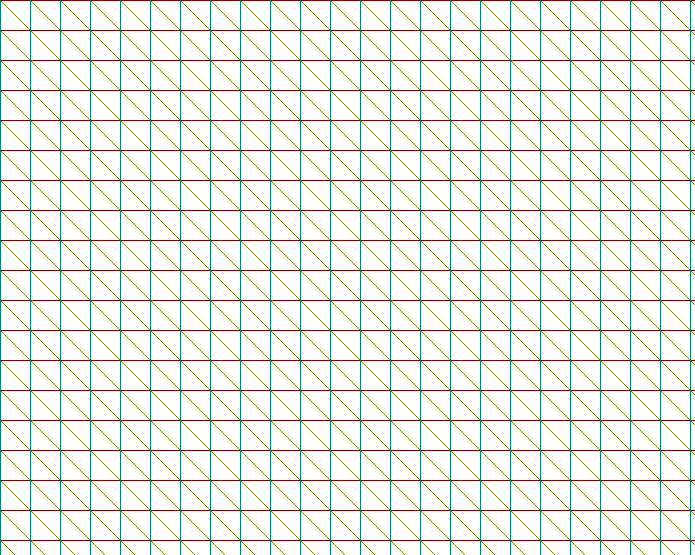
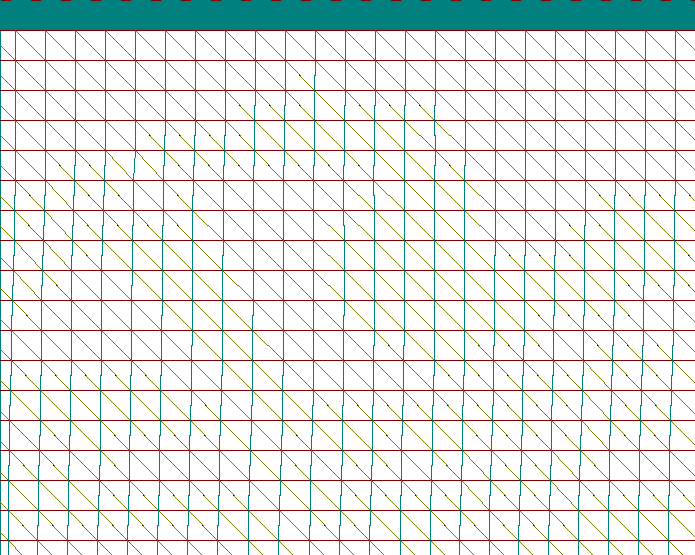
grid warp

Changed region(s): [[0.0, 0.0, 1.0, 1.0], [0.9971, 0.7964, 1.0, 0.827]]

diff --git a/assignment2/src/your_code_here.h b/assignment2/src/your_code_here.h
@@ -14,7 +14,30 @@
  * Utility functions.
  */
 
+template <typename T>
+int getImageOffset(const Image<T>& image, int x, int y)
+{
+    // Return offset of the pixel at column x and row y in memory such that
+    // the pixel can be accessed by image.data[offset].
+    //
+    // Note, that the image is stored in row-first order,
+    // ie. is the order of [x,y] pixels is [0,0],[1,0],[2,0]...[0,1],[1,1][2,1],...
+    //
+    // Image size can be accessed using image.width and image.height.
 
+    /*******
+     * TODO: YOUR CODE GOES HERE!!!
+     ******/
+
+    return y * image.width + x;
+}
+
+int getVertexOffset(const int width, const int x, const int y)
+{
+    int res;
+    res = y * (width + 1) + x;
+    return res;
+}
 
 /// <summary>
 /// Bilinearly sample ImageFloat or ImageRGB using relative image coordinates [x,y].
@@ -40,7 +63,7 @@ inline T sampleBilinear(const Image<T>& image, const glm::vec2& rel_pos)
     // 
     // Therefore, steps are as follows:
     //     1. Compute absolute position of the sampled point within a pixel grid.
-    //     2. Determine 4 nearest pixels.
+    //     2. Determine 4 nearest pixels. 
     //     3. Bilinearly interpolate their values based on the position of the sampling point between them.
     // 
     // Note: The method is templated by parameter "T". This will be either float or glm::vec3 depending on whether the method
@@ -55,32 +78,55 @@ inline T sampleBilinear(const Image<T>& image, const glm::vec2& rel_pos)
     //    YOUR CODE GOES HERE
     //
 
-    return image.data[0]; // <-- Change this.
-}
+    glm::vec2 abs_pos(rel_pos.x * float(image.width), rel_pos.y * float(image.height));
 
-template <typename T>
-int getImageOffset(const Image<T>& image, int x, int y)
-{
-    // Return offset of the pixel at column x and row y in memory such that
-    // the pixel can be accessed by image.data[offset].
-    //
-    // Note, that the image is stored in row-first order,
-    // ie. is the order of [x,y] pixels is [0,0],[1,0],[2,0]...[0,1],[1,1][2,1],...
-    //
-    // Image size can be accessed using image.width and image.height.
+    glm::vec2 topleft(round(abs_pos.x) - 1.0f, round(abs_pos.y) - 1.0f);
+    glm::vec2 topright(round(abs_pos.x), round(abs_pos.y) - 1.0f);
+    glm::vec2 bottomleft(round(abs_pos.x) - 1.0f, round(abs_pos.y));
+    glm::vec2 bottomright(round(abs_pos.x), round(abs_pos.y));
 
-    /*******
-     * TODO: YOUR CODE GOES HERE!!!
-     ******/
+    auto factor_x = 0.0f;
+    auto factor_y = 0.0f;
+    auto pixel_size = 1.0f / float(image.width);
+    auto yLow = image.data[0];
+    auto yHigh = image.data[0];
+    auto result = image.data[0];
 
-    return y * image.width + x;
-}
+    
+    if (round(abs_pos.x) - abs_pos.x > 0) { // 0.8
+    
+        factor_x = glm::mod(abs_pos.x, 1.0f) - (pixel_size / 2.0f);
+        // factor_x = 0.5f;
 
-int getVertexOffset(const int width, const int x, const int y)
-{
-    int res;
-    res = y * (width + 1) + x;
-    return res;
+        yLow = image.data[getImageOffset(image, topleft.x, topleft.y)] + (image.data[getImageOffset(image, topright.x, topright.y)] - image.data[getImageOffset(image, topleft.x, topleft.y)]) * factor_x;
+        yHigh = image.data[getImageOffset(image, bottomleft.x, bottomleft.y)] + (image.data[getImageOffset(image, bottomright.x, bottomright.y)] - image.data[getImageOffset(image, bottomleft.x, bottomleft.y)]) * factor_x;
+    
+    } else { // 1.2
+    
+        factor_x = (pixel_size / 2.0f) - glm::mod(abs_pos.x, 1.0f);
+        // factor_x = 0.5f;
+
+        yLow = image.data[getImageOffset(image, topright.x, topright.y)] + (image.data[getImageOffset(image, topleft.x, topleft.y)] - image.data[getImageOffset(image, topright.x, topright.y)]) * factor_x;
+        yHigh = image.data[getImageOffset(image, bottomright.x, bottomright.y)] + (image.data[getImageOffset(image, bottomleft.x, bottomleft.y)] - image.data[getImageOffset(image, bottomright.x, bottomright.y)]) * factor_x;
+
+    }
+    
+    if (round(abs_pos.y) - abs_pos.y > 0) {
+
+        factor_y = glm::mod(abs_pos.y, 1.0f) - (pixel_size / 2.0f);
+        // factor_y = 0.5f;
+
+        result = yLow + (yHigh - yLow) * factor_y;
+
+    } else {
+
+        factor_y = (pixel_size / 2.0f) - glm::mod(abs_pos.y, 1.0f);
+        // factor_y = 0.5f;
+
+        result = yHigh + (yLow - yHigh) * factor_y;
+    }
+
+    return result;
 }
 
 
@@ -179,12 +225,13 @@ ImageFloat jointBilateralFilter(const ImageFloat& disparity, const ImageRGB& gui
 
                     res += weight * disparity.data[getImageOffset(disparity, x_offset, y_offset)];
                 }
-
-                if (res != INVALID_VALUE && norm != INVALID_VALUE)
-                    result.data[getImageOffset(result, X, Y)] = res / norm;
-                else
-                    result.data[getImageOffset(result, X, Y)] = INVALID_VALUE;
             }
+
+            if (res != INVALID_VALUE && norm != INVALID_VALUE)
+                result.data[getImageOffset(result, X, Y)] = res / norm;
+            else
+                result.data[getImageOffset(result, X, Y)] = INVALID_VALUE;
+
         }
     }
 
@@ -216,19 +263,32 @@ void normalizeValidValues(ImageFloat& scalar_image)
     //    YOUR CODE GOES HERE
     //
 
-    auto sum = 0.0f;
+    auto min_val = INVALID_VALUE;
+    auto max_val = INVALID_VALUE;
 
     for (int i = 0; i < (scalar_image.width * scalar_image.height); i++) {
 
-        if (scalar_image.data[i] != INVALID_VALUE)
-            sum += scalar_image.data[i]; 
+        if (min_val == INVALID_VALUE && max_val == INVALID_VALUE) {
+        
+            min_val = scalar_image.data[i];
+            max_val = scalar_image.data[i];
+
+        } else {
+        
+            if (scalar_image.data[i] < min_val)
+                min_val = scalar_image.data[i];
+
+            if (scalar_image.data[i] > max_val)
+                max_val = scalar_image.data[i];
+        
+        }
     
     }
 
     for (int i = 0; i < (scalar_image.width * scalar_image.height); i++) {
 
         if (scalar_image.data[i] != INVALID_VALUE)
-            scalar_image.data[i] /= sum;
+            scalar_image.data[i] = (scalar_image.data[i] - min_val) / (max_val - min_val);
     }
 
 
@@ -437,7 +497,7 @@ Mesh warpGrid(Mesh& grid, const ImageFloat& disparity, const float scaling_facto
     //
 
     // Here is an example use of our bilinear interpolation.
-    auto interpolated_value = sampleBilinear(disparity, glm::vec2(0.5f, 0.5f));
+    // auto interpolated_value = sampleBilinear(disparity, glm::vec2(0.5f, 0.5f));
     // For a even-sized image it SHOULD return the mean of the center 4 pixels,
     // for an odd-sized image it SHOULD return the central pixel.
     // I recommend you to test that.
@@ -446,7 +506,22 @@ Mesh warpGrid(Mesh& grid, const ImageFloat& disparity, const float scaling_facto
     //    YOUR CODE GOES HERE
     //
 
+    auto norm_disparity = disparity;
+    normalizeValidValues(norm_disparity);
 
+    for (int i = 0; i < grid.vertices.size(); i++) {
+    
+        if (1.0f - grid.vertices[i].x > EDGE_EPSILON && grid.vertices[i].x > EDGE_EPSILON && 1.0f - grid.vertices[i].y > EDGE_EPSILON && grid.vertices[i].y > EDGE_EPSILON) {
+            
+            new_grid.vertices[i].x = grid.vertices[i].x + (scaling_factor * (sampleBilinear(disparity, grid.vertices[i]) / disparity.width));
+
+            //if (new_grid.vertices[i].x < 0) {
+            //    new_grid.vertices[i].x = grid.vertices[i].x;
+            //}
+
+        }
+
+    }
 
     return new_grid;
 }
@@ -590,14 +665,53 @@ ImageRGB backwardWarpImage(const ImageRGB& src_image, const ImageFloat& src_dept
     //
     
     // Example of testing point [0.1, 0.2] is inside a triangle.
-    bool is_point_inside = isPointInsideTriangle(glm::vec2(0.1, 0.2), glm::vec2(0, 0), glm::vec2(1, 0), glm::vec2(0, 1));
+    // bool is_point_inside = isPointInsideTriangle(glm::vec2(0.1, 0.2), glm::vec2(0, 0), glm::vec2(1, 0), glm::vec2(0, 1));
 
     // Example of computing barycentric coordinates of a point [0.1, 0.2] inside a triangle.
-    glm::vec2 bc = barycentricCoordinates(glm::vec2(0.1, 0.2), glm::vec2(0, 0), glm::vec2(1, 0), glm::vec2(0, 1));
+    // glm::vec2 bc = barycentricCoordinates(glm::vec2(0.1, 0.2), glm::vec2(0, 0), glm::vec2(1, 0), glm::vec2(0, 1));
 
     //
     //    YOUR CODE GOES HERE
     //
+
+    auto pixel_width = 1.0f / dst_image.width;
+    auto pixel_height = 1.0f / dst_image.height;
+
+    for (int i = 0; i < dst_grid.triangles.size(); i++) {
+
+        auto vert_1 = dst_grid.vertices[dst_grid.triangles[i].x];
+        auto vert_2 = dst_grid.vertices[dst_grid.triangles[i].y];
+        auto vert_3 = dst_grid.vertices[dst_grid.triangles[i].z];
+
+        auto x_min = std::max(std::min(std::min(vert_1.x, vert_2.x), vert_3.x), 0.0f);
+        auto x_max = std::min(std::max(std::max(vert_1.x, vert_2.x), vert_3.x), 1.0f);
+        auto y_min = std::max(std::min(std::min(vert_1.y, vert_2.y), vert_3.y), 0.0f);
+        auto y_max = std::min(std::max(std::max(vert_1.y, vert_2.y), vert_3.y), 1.0f);
+
+        for (int y = std::floor(y_min * dst_image.height); y < std::ceil(y_max * dst_image.height); y++) {
+            for (int x = std::floor(x_min * dst_image.width); x < std::ceil(x_max * dst_image.width); x++) {
+                
+                glm::vec2 pixel_center_dst((x / dst_image.width) + (pixel_width / 2.0f), (y / dst_image.height) + (pixel_height / 2.0f));
+
+                if (isPointInsideTriangle(pixel_center_dst, vert_1, vert_2, vert_3)) {
+                    
+                    glm::vec3 bc = barycentricCoordinates(pixel_center_dst, vert_1, vert_2, vert_3);
+
+                    glm::vec2 pixel_center_src(src_grid.vertices[src_grid.triangles[i].x] * bc.x + src_grid.vertices[src_grid.triangles[i].y] * bc.y + src_grid.vertices[src_grid.triangles[i].z] * bc.z);
+
+                    auto new_depth = sampleBilinear(src_depth, pixel_center_src);
+
+                    if (new_depth < dst_depth.data[getImageOffset(dst_depth, x, y)]) {
+                        dst_depth.data[getImageOffset(dst_depth, x, y)] = new_depth;
+                        dst_image.data[getImageOffset(dst_image, x, y)] = sampleBilinear(src_image, pixel_center_src);
+                    }
+
+                }
+
+            }
+        }
+    
+    }
 
     // Return the warped image.
     return dst_image;

diff --git a/assignment2/src/main.cpp b/assignment2/src/main.cpp
@@ -84,6 +84,7 @@ int main()
         case InputSelection::Mini:
             // The 5x4 mini image.
             image = ImageRGB(dataDirPath / "mini/image.png");
+            // image = ImageRGB(dataDirPath / "moon_1.jpg");
             src_disparity = loadDisparity(dataDirPath / "mini/disparity.png");
             scene_params = SceneParams_Mini;
             break;
@@ -98,6 +99,13 @@ int main()
         default:
             throw std::runtime_error("Invalid scene ID.");
     }
+
+    /*auto tmp = sampleBilinear(image, glm::vec2(0.5f, 0.5f));
+    auto middle = (image.data[5] + image.data[6] + image.data[9] + image.data[10]) / 4.0f;
+
+    if (!glm::all(glm::equal(tmp, middle))) {
+        std::cout << "Validation Failed: " << std::endl;
+    }*/
 
 
     // Test save the inputs.
